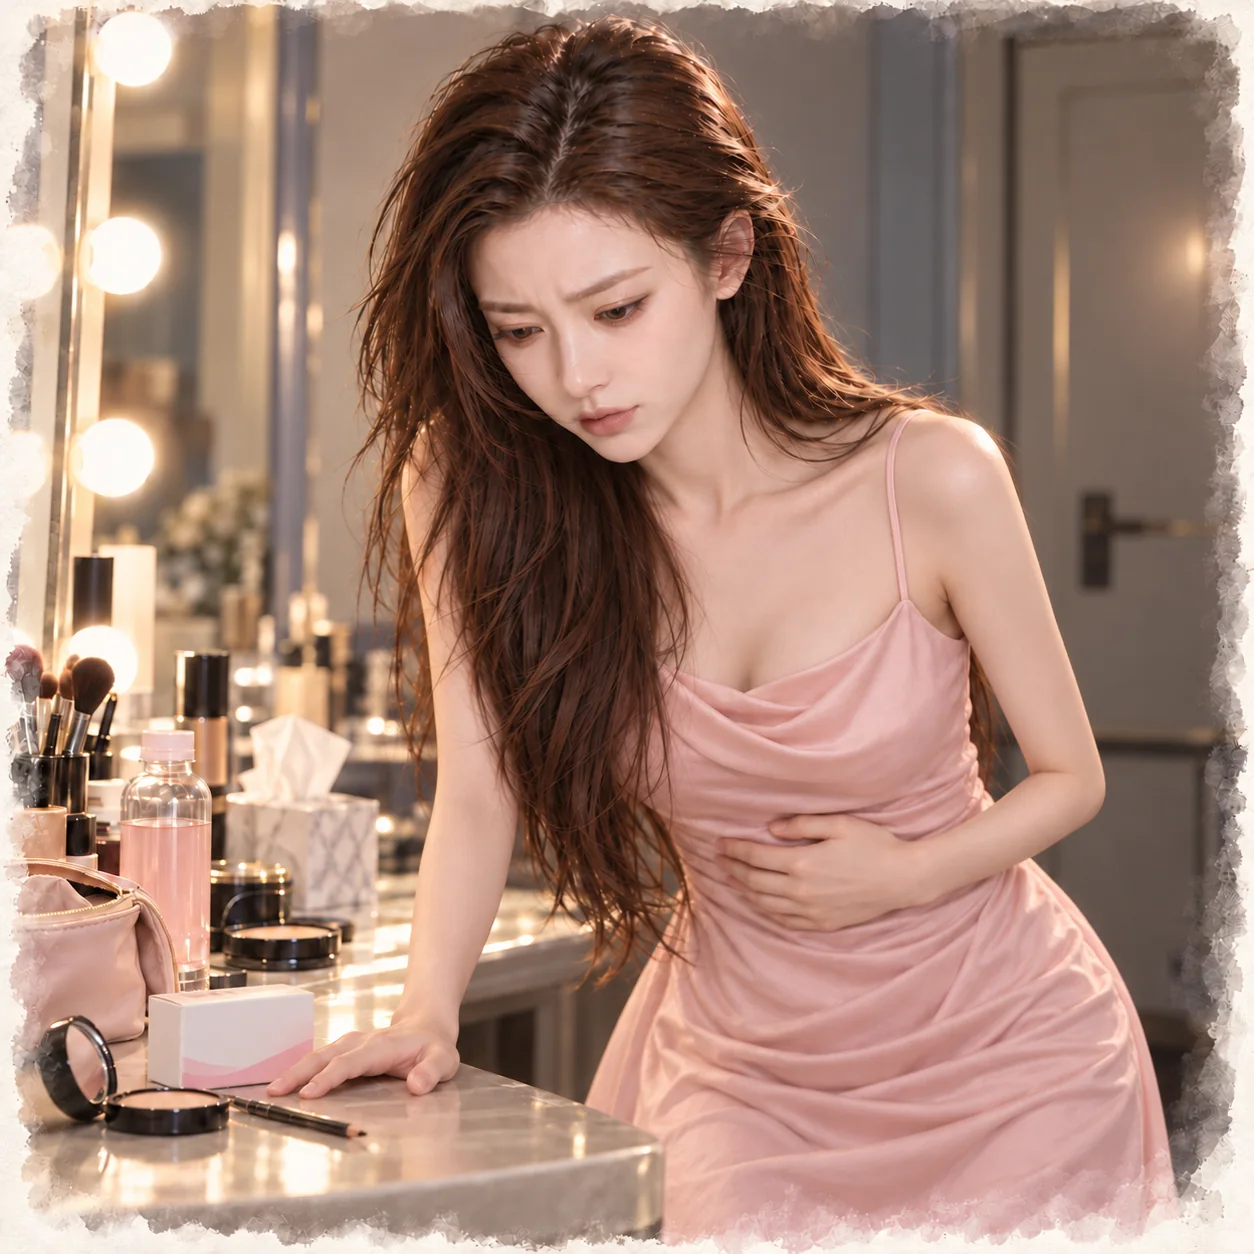
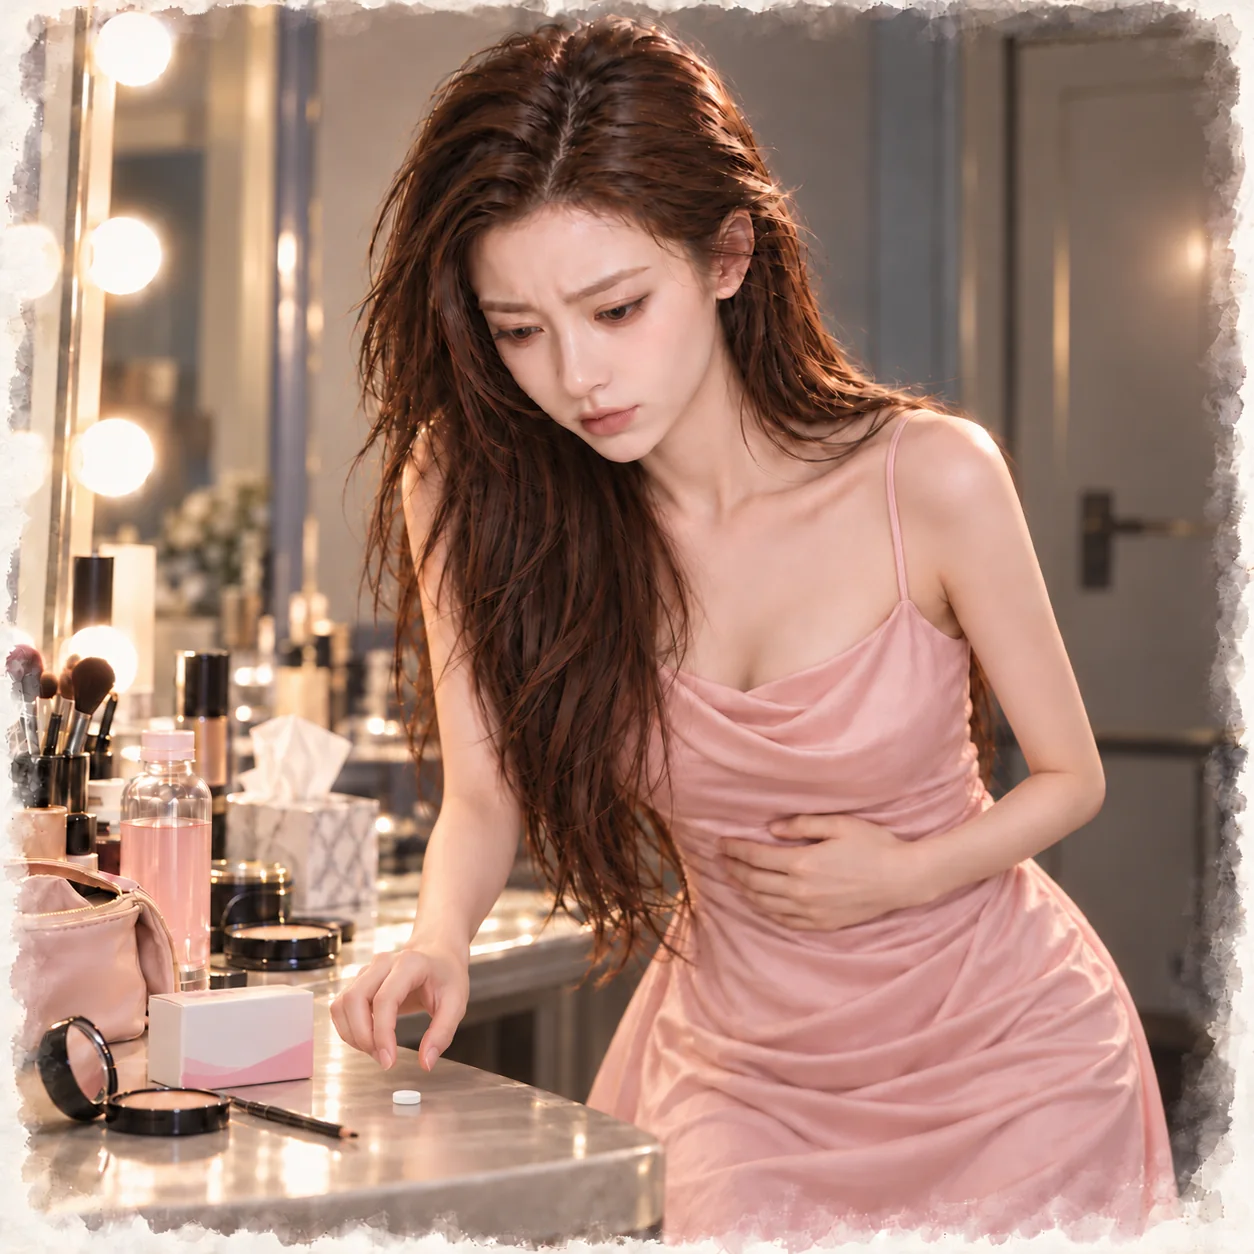
第二部第三章：林棠插圖改用伸手拿藥片的版本
Claude-Session: https://claude.ai/code/session_01HUwf2ENyDuzceKaKYawxmj

diff --git a/novels/no-signboard-bar/part-02-chapter-03.html b/novels/no-signboard-bar/part-02-chapter-03.html
@@ -1,4 +1,4 @@
-<!doctype html><html lang="zh-Hant"><head><meta charset="utf-8"><meta name="viewport" content="width=device-width,initial-scale=1"><title>第二部第三章 你的店被裝了東西｜沒有招牌的酒吧｜Beauty</title><meta name="description" content="沒有招牌的酒吧，第二部第三章〈你的店被裝了東西〉。林棠、江澈、溫寧、陸曜，四人第一人稱輪流敘事。"><link rel="stylesheet" href="../../assets/forest/site.css"><link rel="stylesheet" href="../../assets/forest/reader.css"><link rel="stylesheet" href="../../assets/forest/novel.css?v=reader-font1"><link rel="stylesheet" href="../../assets/forest/reader-plus.css?v=1"></head><body><header class="site-header"><a class="brand" href="../../">Beauty <span class="small-paw">✧</span></a><nav aria-label="主要導覽"><a href="../../#books">小說</a><a href="../../#xiaoruan">小軟</a><a href="../../#about">關於我</a></nav></header><div class="forest-banner"><img src="../../assets/forest/xiaoruan-hero-v2.webp" alt="小軟的童話森林" width="1672" height="941"></div><main class="reader-shell" id="main"><nav class="breadcrumb" aria-label="所在位置"><a href="../../#books">故事森林</a><span>／</span><a href="part-02.html">沒有招牌的酒吧</a><span>／ 第二部</span></nav><article class="reader-paper"><header class="reader-heading"><p class="eyebrow">沒有招牌的酒吧 · 第二部</p><h1>第三章　你的店被裝了東西</h1><p class="reader-meta">Beauty 著 · 四人第一人稱輪流敘事</p><nav class="pov-nav" aria-label="本章視角"><a href="#pov-1">林棠</a><a href="#pov-2">江澈</a><a href="#pov-3">林棠</a><a href="#pov-4">溫寧</a><a href="#pov-5">陸曜</a></nav><div class="reader-settings" role="group" aria-label="閱讀字級"><span>字級</span><button type="button" data-font-step="-1" aria-label="縮小文字">A−</button><button type="button" data-font-step="1" aria-label="放大文字">A＋</button><button type="button" data-font-reset>還原</button><output aria-live="polite" class="reader-font-status">預設</output></div></header><div class="reader-body"><section class="pov pov-lin" data-name="林棠"><div class="pov-opening"><h2 class="pov-title" id="pov-1"><span>敘事視角</span>林棠</h2><a class="pov-art" href="../../assets/novels/no-signboard-bar/part-02-chapter-03-lin-tang.webp?v=20261014" target="_blank" rel="noopener" aria-label="開啟林棠插圖大圖"><img src="../../assets/novels/no-signboard-bar/part-02-chapter-03-lin-tang.webp?v=20261014" alt="上鎖的化妝間，林棠穿著淡粉色洋裝撐著化妝台彎著腰，一手按著肚子；台上擺著那瓶粉紅色的纖體飲品、翻開的化妝包和一個白色小藥盒。" width="1254" height="1254" loading="lazy" decoding="async"><span class="pov-cap">十分鐘。現在剩幾分鐘？</span></a><div class="pov-intro"><p>合約是用快遞寄來的。</p><p>很厚一疊，白色的紙，品牌的標誌印在每一頁的右上角。經紀人用螢光筆畫好了要簽名的地方，一共七個。</p><p>我坐在餐桌前面，一頁一頁翻。</p></div></div>
+<!doctype html><html lang="zh-Hant"><head><meta charset="utf-8"><meta name="viewport" content="width=device-width,initial-scale=1"><title>第二部第三章 你的店被裝了東西｜沒有招牌的酒吧｜Beauty</title><meta name="description" content="沒有招牌的酒吧，第二部第三章〈你的店被裝了東西〉。林棠、江澈、溫寧、陸曜，四人第一人稱輪流敘事。"><link rel="stylesheet" href="../../assets/forest/site.css"><link rel="stylesheet" href="../../assets/forest/reader.css"><link rel="stylesheet" href="../../assets/forest/novel.css?v=reader-font1"><link rel="stylesheet" href="../../assets/forest/reader-plus.css?v=1"></head><body><header class="site-header"><a class="brand" href="../../">Beauty <span class="small-paw">✧</span></a><nav aria-label="主要導覽"><a href="../../#books">小說</a><a href="../../#xiaoruan">小軟</a><a href="../../#about">關於我</a></nav></header><div class="forest-banner"><img src="../../assets/forest/xiaoruan-hero-v2.webp" alt="小軟的童話森林" width="1672" height="941"></div><main class="reader-shell" id="main"><nav class="breadcrumb" aria-label="所在位置"><a href="../../#books">故事森林</a><span>／</span><a href="part-02.html">沒有招牌的酒吧</a><span>／ 第二部</span></nav><article class="reader-paper"><header class="reader-heading"><p class="eyebrow">沒有招牌的酒吧 · 第二部</p><h1>第三章　你的店被裝了東西</h1><p class="reader-meta">Beauty 著 · 四人第一人稱輪流敘事</p><nav class="pov-nav" aria-label="本章視角"><a href="#pov-1">林棠</a><a href="#pov-2">江澈</a><a href="#pov-3">林棠</a><a href="#pov-4">溫寧</a><a href="#pov-5">陸曜</a></nav><div class="reader-settings" role="group" aria-label="閱讀字級"><span>字級</span><button type="button" data-font-step="-1" aria-label="縮小文字">A−</button><button type="button" data-font-step="1" aria-label="放大文字">A＋</button><button type="button" data-font-reset>還原</button><output aria-live="polite" class="reader-font-status">預設</output></div></header><div class="reader-body"><section class="pov pov-lin" data-name="林棠"><div class="pov-opening"><h2 class="pov-title" id="pov-1"><span>敘事視角</span>林棠</h2><a class="pov-art" href="../../assets/novels/no-signboard-bar/part-02-chapter-03-lin-tang.webp?v=20261014b" target="_blank" rel="noopener" aria-label="開啟林棠插圖大圖"><img src="../../assets/novels/no-signboard-bar/part-02-chapter-03-lin-tang.webp?v=20261014b" alt="上鎖的化妝間，林棠穿著淡粉色洋裝撐著化妝台彎著腰，一手按著肚子，另一手伸向滾在眉筆旁的一顆白色藥片；台上擺著粉紅色的纖體飲品和白色小藥盒。" width="1254" height="1254" loading="lazy" decoding="async"><span class="pov-cap">十分鐘。現在剩幾分鐘？</span></a><div class="pov-intro"><p>合約是用快遞寄來的。</p><p>很厚一疊，白色的紙，品牌的標誌印在每一頁的右上角。經紀人用螢光筆畫好了要簽名的地方，一共七個。</p><p>我坐在餐桌前面，一頁一頁翻。</p></div></div>
 <p>代言期間、曝光次數、酬勞、違約金。這些我都看過很多次了，每一份合約都差不多。</p>
 <p>翻到第十四頁，我停下來。</p>
 <p>外型維持條款。</p>
